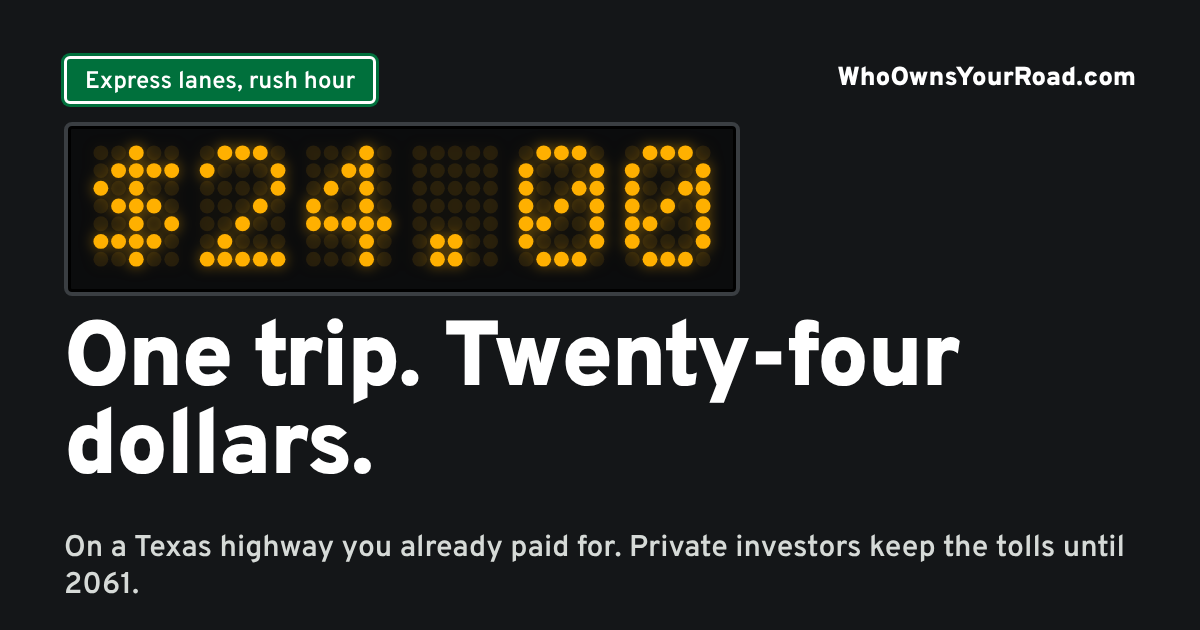
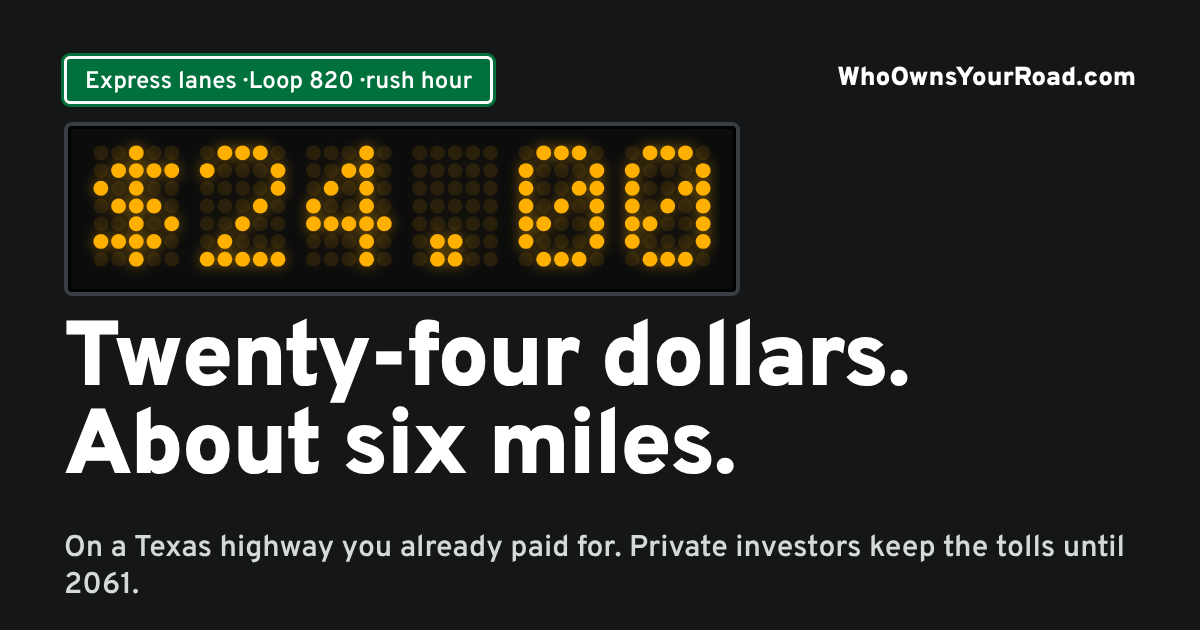
Real sign and receipts: two-row gantry, receipts screen, tighter story, counter hidden until 100
Claude-Session: https://claude.ai/code/session_01TcvVduhaZCanKGPsc3iKbP

Changed region(s): [[0.0308, 0.4825, 0.8017, 0.754], [0.185, 0.0603, 0.4317, 0.181]]

diff --git a/public/index.html b/public/index.html
@@ -7,7 +7,7 @@
   <meta name="description" content="One rush-hour trip on a DFW express lane has cost $24. The road is a Texas highway. Private investors keep the tolls until 2061. See who, and tell the Legislature to act.">
   <meta name="theme-color" content="#141618">
   <link rel="icon" href="/img/favicon.svg" type="image/svg+xml">
-  <link rel="stylesheet" href="/css/site.css?v=20261017b">
+  <link rel="stylesheet" href="/css/site.css?v=20261017c">
   <meta property="og:type" content="website">
   <meta property="og:title" content="One trip. $24. On a road you already paid for.">
   <meta property="og:description" content="DFW's express lanes are Texas highways. Private investors set the price and keep the tolls until 2061. Who owns your road?">
@@ -30,14 +30,33 @@
   <main id="main">
 
     <!-- 1. The gantry -->
-    <section class="sign gantry" aria-label="One trip costs twenty-four dollars">
+    <section class="sign gantry" aria-label="Twenty-four dollars for about six miles">
       <div class="inner">
-        <p class="gantry-label">Express lanes, rush hour</p>
-        <div class="readout" data-readout data-to="24" role="img" aria-label="Toll sign reading 24 dollars"><div class="panel" data-panel><span class="visually-hidden">$24.00</span></div></div>
-        <h1 class="say">One trip. <span style="white-space:nowrap">Twenty-four</span> dollars.</h1>
-        <p class="sub">On a Fort Worth highway your taxes already paid for.</p>
-        <p class="note">$24 was the posted price on the SH 121/183 express lanes at rush hour, reported by <a href="/sources#s12">NBC 5 DFW</a>. CBS Texas has reported <a href="/sources#s13">$20</a> on the same stretch.</p>
+        <p class="gantry-label">Express lanes, Loop 820 east, rush hour</p>
+        <div class="readout" data-readout data-to="24" role="img" aria-label="Toll sign reading 12 dollars for carpools and 24 dollars for everyone else">
+          <div class="panel">
+            <div class="row"><span class="lbl">HOV 2+</span><div class="mx small" data-panel-hov></div></div>
+            <div class="row"><span class="lbl">TollTag</span><div class="mx" data-panel><span class="visually-hidden">$24.00</span></div></div>
+          </div>
+        </div>
+        <h1 class="say">Twenty-four dollars. About six miles.</h1>
+        <p class="sub">Drivers photographed this price on Loop 820 in Fort Worth twice this year. Another sign on the same network showed $20.65 for about three miles.</p>
+        <p class="note">Posted prices photographed by DFW drivers on April 22 and October 2026.<sup><a href="/sources#s23">23</a></sup> NBC 5 and CBS Texas have reported $24 and $20 on these lanes.<sup><a href="/sources#s12">12</a></sup><sup><a href="/sources#s13">13</a></sup></p>
         <p class="cue" aria-hidden="true">Keep going</p>
+      </div>
+    </section>
+
+    <!-- 1b. Receipts -->
+    <section class="sign asphalt" id="receipts" aria-label="Real receipts">
+      <div class="inner">
+        <p class="marker"><span class="dot"></span>Real receipts</p>
+        <h2 class="say wide reveal">Seventeen minutes. $93.70.</h2>
+        <p class="sub reveal d1">One driver's toll bill for three weeks in 2025: five short express-lane trips on I-35W and 820 added up to $93.70 for 17 minutes of driving.<sup><a href="/sources#s24">24</a></sup></p>
+        <ul class="facts side reveal d2">
+          <li><strong>$38</strong><span>for about 12 miles of express lanes around North Dallas, October 2026<sup><a href="/sources#s24">24</a></sup></span></li>
+          <li><strong>$20.65</strong><span>for a stretch a driver measured at about three miles, October 2026<sup><a href="/sources#s23">23</a></sup></span></li>
+        </ul>
+        <p class="note">Got a worse one? <a href="mailto:hello@whoownsyourroad.com?subject=My%20toll%20receipt">Send us your receipt</a> and we'll add it, with your name or without.</p>
       </div>
     </section>
 
@@ -82,17 +101,9 @@
         <ul class="facts side reveal d2">
           <li><strong>$1.06</strong><span>The normal cap, per mile<sup><a href="/sources#s12">12</a></sup></span></li>
           <li><strong>+13%</strong><span>Rise in what each trip paid on the NTE in 2025. Inflation was 3%.<sup><a href="/sources#s15">15</a></sup></span></li>
+          <li><strong>$1.2B</strong><span>State and regional money that went into the deals, on top of federal loans<sup><a href="/sources#s1">1</a></sup><sup><a href="/sources#s6">6</a></sup><sup><a href="/sources#s10">10</a></sup></span></li>
+          <li><strong>$0</strong><span>What the private company paid to build one I-35W stretch it now collects tolls on. The state built it.<sup><a href="/sources#s6">6</a></sup></span></li>
         </ul>
-      </div>
-    </section>
-
-    <!-- 5. Texas paid too -->
-    <section class="sign asphalt" aria-label="Texas paid too">
-      <div class="inner">
-        <p class="marker"><span class="dot"></span>And</p>
-        <h2 class="say reveal">Texas paid too.</h2>
-        <p class="sub reveal d1">About $1.2 billion in state and regional money went into these three deals, on top of federal loans.<sup><a href="/sources#s1">1</a></sup><sup><a href="/sources#s6">6</a></sup><sup><a href="/sources#s10">10</a></sup></p>
-        <p class="sub light reveal d2">One stretch of I-35W was built entirely with state money. The private company collects the tolls on it anyway.<sup><a href="/sources#s6">6</a></sup><sup><a href="/sources#s7">7</a></sup></p>
       </div>
     </section>
 
@@ -122,16 +133,6 @@
       </div>
     </section>
 
-    <!-- 7. Fairness -->
-    <section class="sign green" aria-label="To be fair">
-      <div class="inner">
-        <p class="marker"><span class="bar"></span>To be fair</p>
-        <h2 class="say reveal">It's not all bad.</h2>
-        <p class="sub reveal d1">The deals rebuilt the free lanes too, years before Texas could afford to. If traffic falls short, the investors lose money, not the state.<sup><a href="/sources#s1">1</a></sup><sup><a href="/sources#s21">21</a></sup></p>
-        <p class="sub light reveal d2">The question is whether drivers should keep paying surge prices for 35 more years with no limit and no view of where the money goes.</p>
-      </div>
-    </section>
-
     <!-- 8. Work zone: the asks -->
     <section class="sign orange" id="asks" aria-label="What we are asking for">
       <div class="inner">
@@ -144,6 +145,7 @@
           <li><div><h3>Price the exit</h3><p>TxDOT publishes what it would cost to end each contract early, so Texans can decide if it's worth it.</p></div></li>
           <li><div><h3>No new deals without a vote</h3><p>Lawmakers must vote before TxDOT signs or extends any private toll contract.</p></div></li>
         </ol>
+        <p class="note">To be fair: the deals rebuilt the free lanes too, and if traffic falls short the investors lose money, not the state.<sup><a href="/sources#s1">1</a></sup><sup><a href="/sources#s21">21</a></sup> None of that requires 35 more years with no price limit and no public books.</p>
       </div>
     </section>
 
@@ -152,11 +154,12 @@
       <div class="inner">
         <p class="marker"><span class="bar"></span>Add your name</p>
         <h2 class="say wide">10,000 names before the session opens.</h2>
-        <div class="goal">
+        <div class="goal low" data-goal>
+          <p class="first">Be one of the first 100.</p>
           <div class="nums"><strong data-sig-count>0</strong><span>of 10,000</span></div>
           <div class="track" data-goal-bar role="progressbar" aria-valuemin="0" aria-valuemax="10000" aria-valuenow="0" aria-label="Signatures toward goal"><div class="fill" data-goal-fill></div></div>
         </div>
-        <p class="countdown">Session opens January 12, 2027. We hand every legislator the names from their own district.</p>
+        <p class="countdown"><span data-session-line>Session opens January 12, 2027.</span> We hand every legislator the names from their own district.</p>
 
         <form class="petition side" id="petition-form" novalidate>
           <div class="field-row">
@@ -240,8 +243,8 @@
     </div>
   </footer>
 
-  <script src="/js/dotmatrix.js?v=20261017b" defer></script>
-  <script src="/js/site.js?v=20261017b" defer></script>
-  <script src="/js/petition.js?v=20261017b" defer></script>
+  <script src="/js/dotmatrix.js?v=20261017c" defer></script>
+  <script src="/js/site.js?v=20261017c" defer></script>
+  <script src="/js/petition.js?v=20261017c" defer></script>
 </body>
 </html>

diff --git a/public/sources.html b/public/sources.html
@@ -7,7 +7,7 @@
   <title>Sources | Who Owns Your Road</title>
   <meta name="description" content="Every figure on Who Owns Your Road, with a link to where it came from.">
   <link rel="icon" href="/img/favicon.svg" type="image/svg+xml">
-  <link rel="stylesheet" href="/css/site.css?v=20261017b">
+  <link rel="stylesheet" href="/css/site.css?v=20261017c">
 </head>
 <body class="page">
   <a class="skip" href="#main">Skip to content</a>
@@ -47,6 +47,8 @@
         <li id="s20"><a href="https://capitol.texas.gov/tlodocs/89R/billtext/pdf/HB02552I.pdf" rel="noopener">H.B. 2552, 89th Legislature</a>, Texas Legislature Online, 2025.<span class="src-note">Filed bill barring tolls on a road after the state ends its private agreement.</span></li>
         <li id="s21"><a href="https://bondbuyer.com/news/690m-deal-to-complete-finance-for-north-tarrant-express" rel="noopener">$690M deal to complete finance for North Tarrant Express</a>, The Bond Buyer.<span class="src-note">SH 130 consortium bankruptcy.</span></li>
         <li id="s22"><a href="https://www.texpresslanes.com/news_articles/inside-the-nte-capacity-improvement-project/" rel="noopener">Inside the NTE Capacity Improvement Project</a>, TEXpress Lanes, March 2026.<span class="src-note">Expansion funded through toll revenue under the concession.</span></li>
+        <li id="s23">Photographs of TEXpress price signs posted publicly on Facebook by Dallas-Fort Worth drivers: a Loop 820 eastbound sign reading $24.00 (TollTag) and $12.00 (HOV), April 22, 2026; a sign reading $20.65 and $10.33 on a stretch the driver measured at about three miles, October 2026.<span class="src-note">Copies on file. Posters' names withheld unless they ask to be credited.</span></li>
+        <li id="s24">Toll statements posted publicly on Facebook by Dallas-Fort Worth drivers: a three-week bill of $111.84 including $93.70 for 17 minutes on I-35W and 820 express lanes, July 2025; a TollTag statement showing $24.00, $7.40 and $7.15 charges within ten minutes on October 9, 2026, described by the driver as about 12 miles for $38.<span class="src-note">Copies on file. Posters' names withheld unless they ask to be credited.</span></li>
       </ol>
     </section>
   </main>

diff --git a/public/css/site.css b/public/css/site.css
@@ -226,7 +226,11 @@ li { margin-bottom: 0.4em; }
   box-shadow: inset 0 0 0 2px #000, 0 2px 0 #000;
 }
 
-.readout svg { width: 100%; height: auto; filter: drop-shadow(0 0 6px var(--amber-glow)); }
+.readout .row { display: grid; grid-template-columns: minmax(64px, 18%) 1fr; align-items: center; gap: 12px; }
+.readout .row + .row { margin-top: clamp(8px, 1.6vw, 14px); }
+.readout .lbl { font-weight: 800; font-size: clamp(0.8rem, 2.2vw, 1.2rem); color: #e8e8e8; line-height: 1.05; padding-top: 3px; }
+.readout .mx svg { width: 100%; height: auto; filter: drop-shadow(0 0 6px var(--amber-glow)); }
+.readout .mx.small svg { width: 76%; }
 
 /* ---------- Reveal: one small, reader-controlled motion ---------- */
 
@@ -351,6 +355,9 @@ li { margin-bottom: 0.4em; }
 .goal .track { height: 16px; background: rgba(0, 0, 0, 0.25); border-radius: 4px; margin-top: 10px; overflow: hidden; border: 2px solid rgba(255,255,255,0.6); }
 .goal .fill { height: 100%; background: var(--amber); width: 0; min-width: 6px; transition: width 900ms ease-out; }
 .countdown { font-size: 1.1rem; font-weight: 600; margin: 14px 0 0; }
+.goal .first { display: none; font-weight: 900; font-size: clamp(1.6rem, 5vw, 2.4rem); line-height: 1.05; margin: 0; }
+.goal.low .first { display: block; }
+.goal.low .nums, .goal.low .track { display: none; }
 
 /* ---------- Forms ---------- */
 
@@ -515,3 +522,5 @@ ol.sources .src-note { display: block; color: var(--muted); }
   table.stack td[data-label="Segment"] { font-weight: 900; font-size: 1.1rem; }
   table.stack .bar { height: 14px; }
 }
+
+.sign sup a { color: inherit; opacity: 0.75; }

diff --git a/public/js/site.js b/public/js/site.js
@@ -18,8 +18,13 @@
 
   // ---- Signature count and goal ----
 
+  var SHOW_COUNT_AT = 100;
+
   window.updateSignatureCount = function (total) {
     total = Number(total || 0);
+    document.querySelectorAll("[data-goal]").forEach(function (g) {
+      g.classList.toggle("low", total < SHOW_COUNT_AT);
+    });
     document.querySelectorAll("[data-sig-count]").forEach(function (el) {
       el.textContent = fmt(total);
     });
@@ -40,9 +45,16 @@
 
   // ---- Countdown to session ----
 
+  var daysLeft = Math.ceil((SESSION_OPENS - new Date()) / 86400000);
   document.querySelectorAll("[data-days-to-session]").forEach(function (el) {
-    var days = Math.max(0, Math.ceil((SESSION_OPENS - new Date()) / 86400000));
-    el.textContent = days === 1 ? "1 day" : fmt(days) + " days";
+    if (daysLeft <= 0) {
+      el.textContent = "now";
+    } else {
+      el.textContent = daysLeft === 1 ? "1 day" : fmt(daysLeft) + " days";
+    }
+  });
+  document.querySelectorAll("[data-session-line]").forEach(function (el) {
+    if (daysLeft <= 0) el.textContent = "The session is open.";
   });
 
   // ---- Hero readout: counts up from the per-mile cap to the posted peak ----
@@ -52,6 +64,8 @@
     var to = Number(readout.getAttribute("data-to")) || 24;
     var from = 1.06;
     var panel = readout.querySelector("[data-panel]");
+    var hov = readout.querySelector("[data-panel-hov]");
+    if (hov) hov.innerHTML = window.dotMatrix("$12.00");
     function show(v) { panel.innerHTML = window.dotMatrix("$" + v.toFixed(2)); }
     if (reduceMotion) {
       show(to);

diff --git a/public/write.html b/public/write.html
@@ -7,7 +7,7 @@
   <meta name="description" content="Email your Texas state representative and senator about surge tolls on private express lanes. The letter is written. You add your name.">
   <meta name="theme-color" content="#ffffff">
   <link rel="icon" href="/img/favicon.svg" type="image/svg+xml">
-  <link rel="stylesheet" href="/css/site.css?v=20261017b">
+  <link rel="stylesheet" href="/css/site.css?v=20261017c">
   <meta property="og:type" content="website">
   <meta property="og:title" content="Email your Texas legislators about $24 tolls. Takes a minute.">
   <meta property="og:description" content="The letter is written. Look up your reps, add your name, hit send.">
@@ -84,7 +84,7 @@
     </div>
   </footer>
 
-  <script src="/js/site.js?v=20261017b" defer></script>
-  <script src="/js/write.js?v=20261017b" defer></script>
+  <script src="/js/site.js?v=20261017c" defer></script>
+  <script src="/js/write.js?v=20261017c" defer></script>
 </body>
 </html>

diff --git a/scripts/og/share.html b/scripts/og/share.html
@@ -11,9 +11,9 @@ body{width:1200px;height:630px;background:#141618;color:#fff;font-family:Overpas
 h1{position:absolute;left:64px;top:318px;margin:0;font-weight:900;font-size:92px;line-height:.96;letter-spacing:-.025em;max-width:1080px}
 p{position:absolute;left:64px;top:530px;margin:0;font-size:30px;font-weight:600;color:#d6dad7}
 </style></head><body>
-<div class="label">Express lanes, rush hour</div>
+<div class="label">Express lanes &middot; Loop 820 &middot; rush hour</div>
 <div class="wm">WhoOwnsYourRoad.com</div>
 <div class="readout" id="r"></div>
-<h1>One trip. Twenty-four dollars.</h1>
+<h1>Twenty-four dollars. About six miles.</h1>
 <p>On a Texas highway you already paid for. Private investors keep the tolls until 2061.</p>
 <script src="../../public/js/dotmatrix.js"></script><script>document.getElementById("r").innerHTML=dotMatrix("$24.00")</script></body></html>

diff --git a/public/roads.html b/public/roads.html
@@ -7,7 +7,7 @@
   <title>The Roads | Who Owns Your Road</title>
   <meta name="description" content="Ownership shares, public funding and contract terms for the NTE, NTE 35W and LBJ express lanes in Dallas-Fort Worth.">
   <link rel="icon" href="/img/favicon.svg" type="image/svg+xml">
-  <link rel="stylesheet" href="/css/site.css?v=20261017b">
+  <link rel="stylesheet" href="/css/site.css?v=20261017c">
 </head>
 <body class="page">
   <a class="skip" href="#main">Skip to content</a>

diff --git a/public/about.html b/public/about.html
@@ -7,7 +7,7 @@
   <title>About | Who Owns Your Road</title>
   <meta name="description" content="Who runs Who Owns Your Road, how we check facts, and how we handle petition data.">
   <link rel="icon" href="/img/favicon.svg" type="image/svg+xml">
-  <link rel="stylesheet" href="/css/site.css?v=20261017b">
+  <link rel="stylesheet" href="/css/site.css?v=20261017c">
 </head>
 <body class="page">
   <a class="skip" href="#main">Skip to content</a>

diff --git a/public/404.html b/public/404.html
@@ -6,7 +6,7 @@
   <meta name="theme-color" content="#ffffff">
   <title>Page not found | Who Owns Your Road</title>
   <link rel="icon" href="/img/favicon.svg" type="image/svg+xml">
-  <link rel="stylesheet" href="/css/site.css?v=20261017b">
+  <link rel="stylesheet" href="/css/site.css?v=20261017c">
 </head>
 <body class="page">
   <div class="topline">
